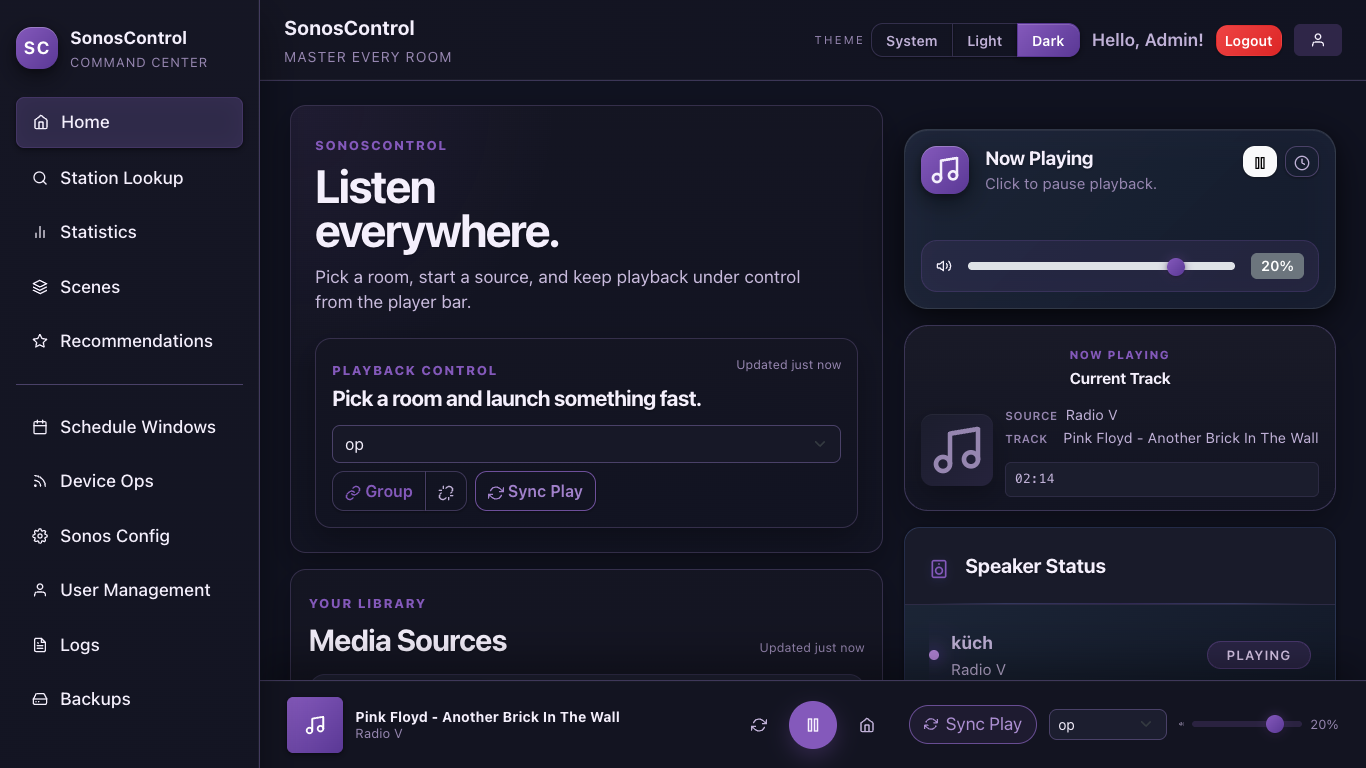
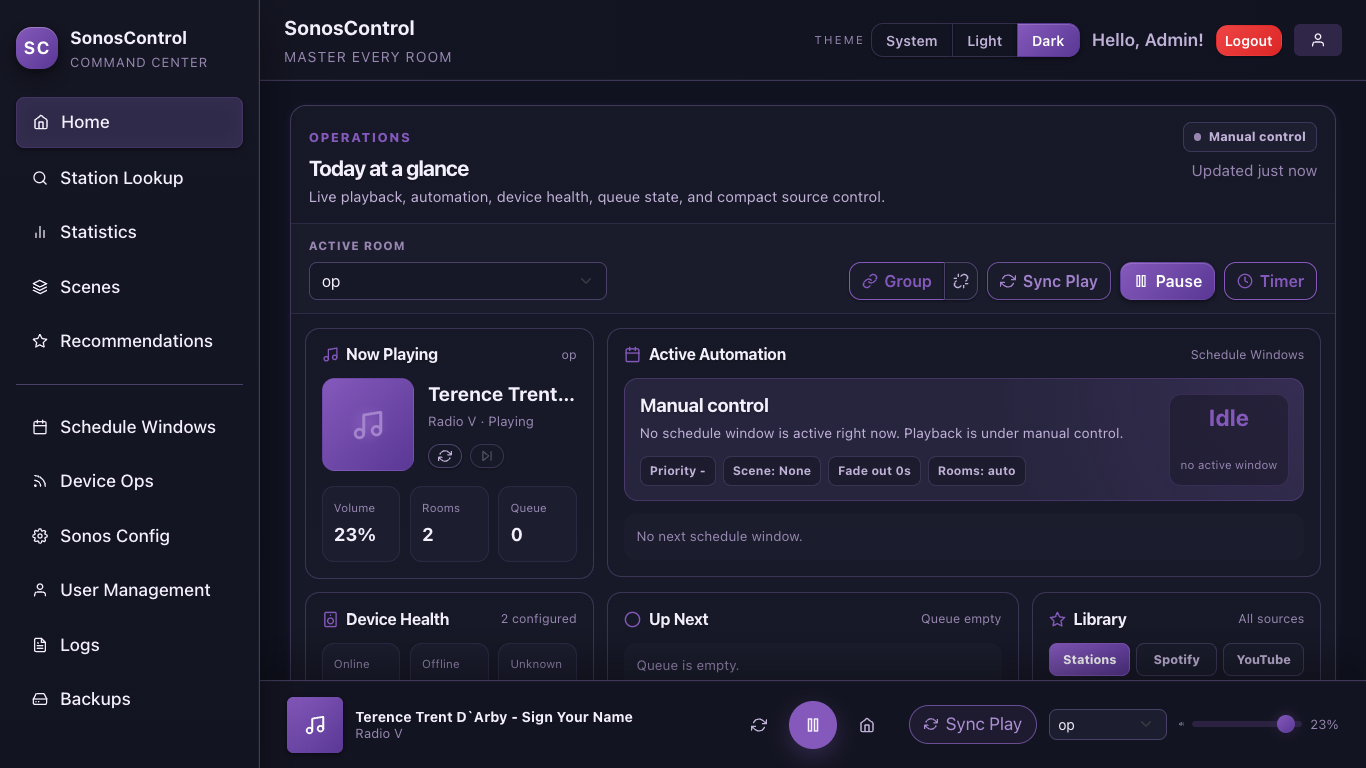
Refresh README screenshots

diff --git a/capture_readme_screenshots.py b/capture_readme_screenshots.py
@@ -15,7 +15,7 @@ from playwright.sync_api import expect, sync_playwright
 CHROME_PATH = os.getenv("PLAYWRIGHT_CHROME_PATH")
 
 ROUTES = [
-    ("/", "home", "Media Sources"),
+    ("/", "home", "Today at a glance"),
     ("/config", "config", "System Configuration"),
     ("/stats", "stats", "Statistics"),
     ("/admin/users", "users", "User Management"),
